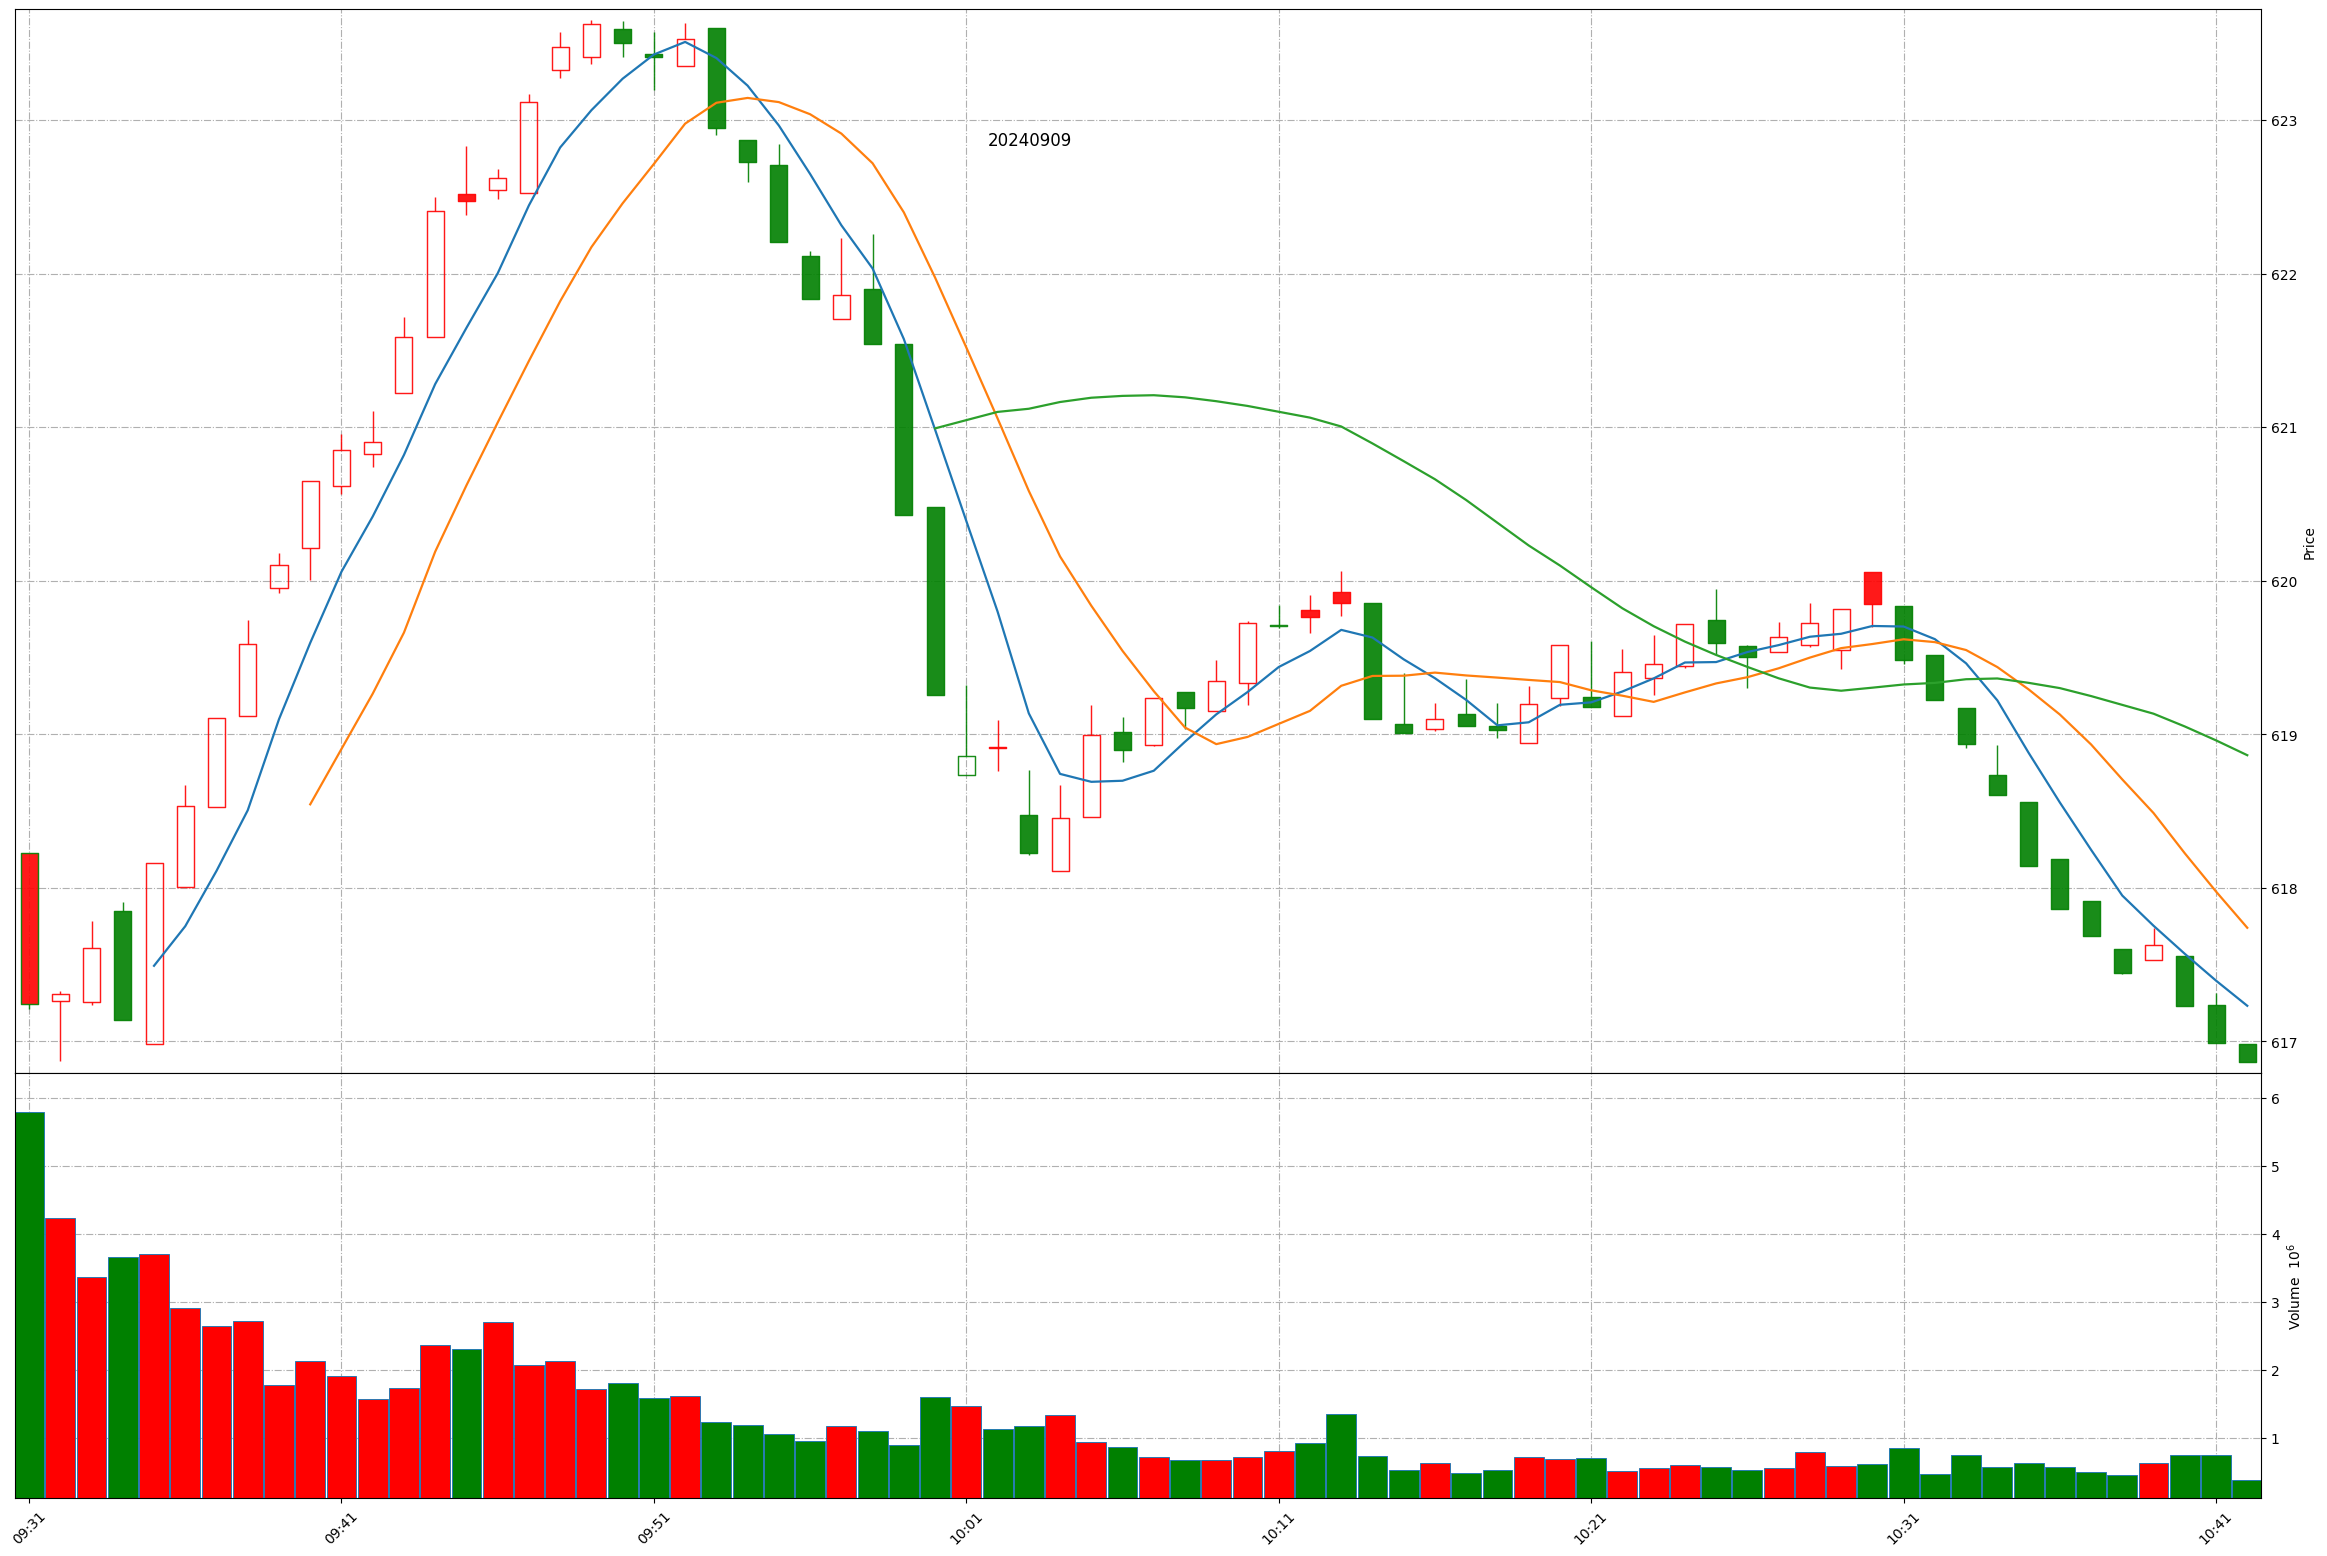
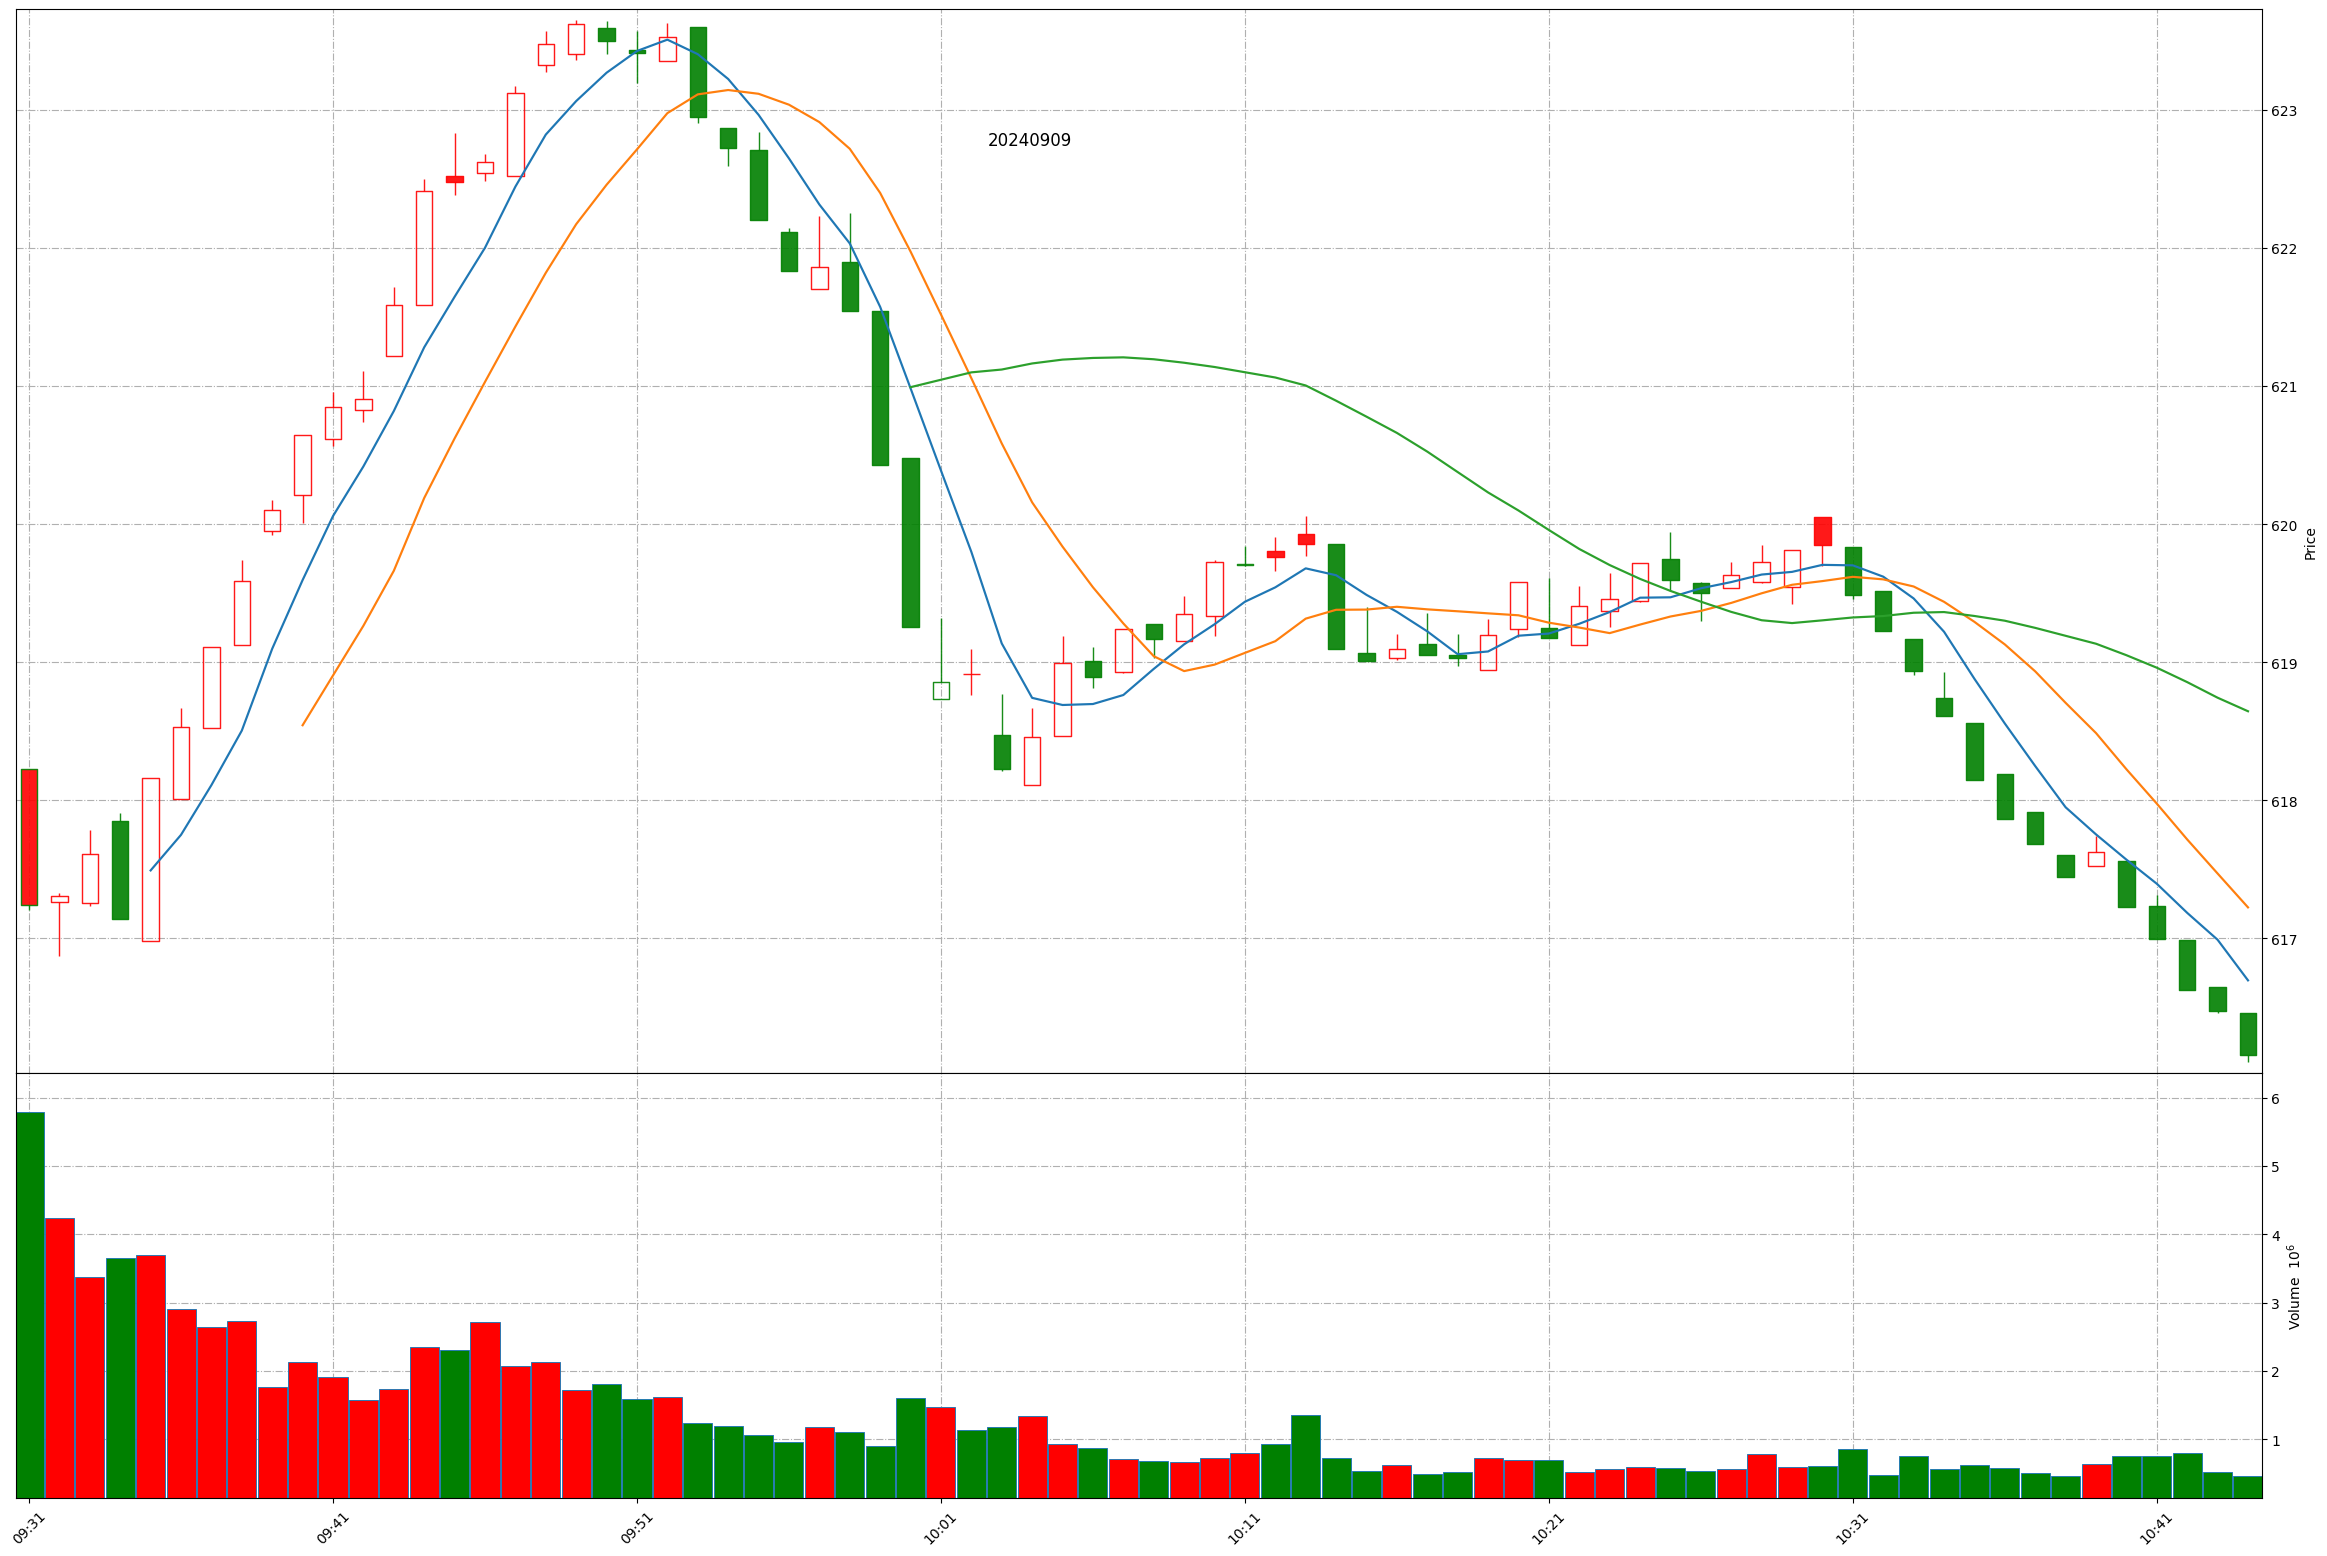
Github action update at 2024-09-09 10:44:14.

diff --git a/README.md b/README.md
@@ -1,11 +1,11 @@
 
 # Daily-A-share-market-quotes 每日 A 股指数（5min 更新）- 20240909
 
-### 上证指数 20240909 10:41
+### 上证指数 20240909 10:44
 ![](./fig/2024/9/20240909-sh000001.png)
 
-### 深证成指 20240909 10:41
+### 深证成指 20240909 10:44
 ![](./fig/2024/9/20240909-sz399001.png)
 
-### 北证50 20240909 10:41
+### 北证50 20240909 10:44
 ![](./fig/2024/9/20240909-bj899050.png)
